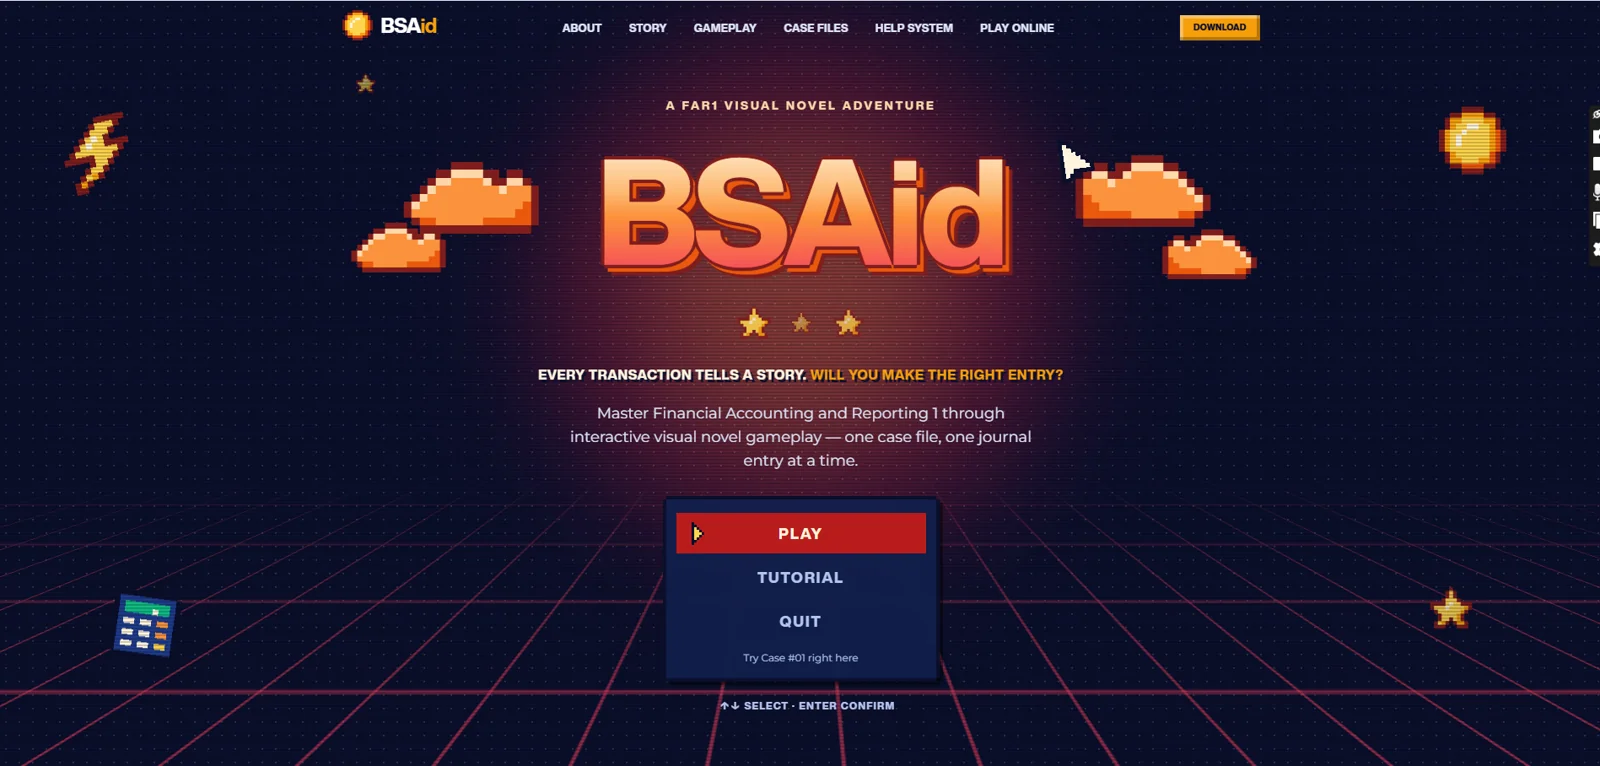
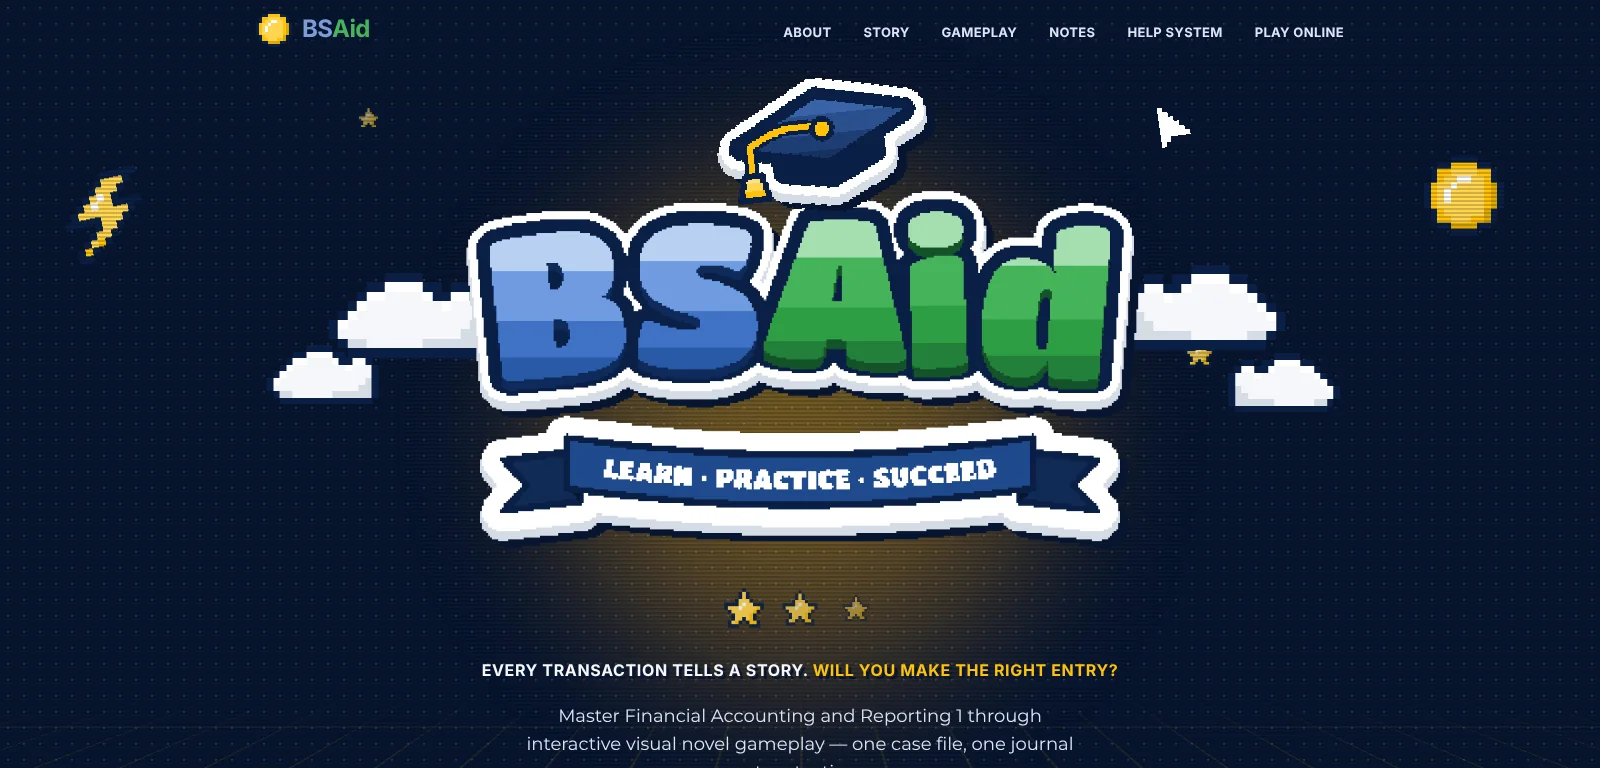
Add ASTRA web project and refresh BSAid screenshots
New ASTRA (Digital Accounting Education Hub) showcase with two live-site
screenshots and a Visit Live Site link; BSAid gets fresh hero and
splash screenshots. Website showcases now crossfade between screenshots
instead of fanning them behind the browser frame.

Claude-Session: https://claude.ai/code/session_01EPMuR69G9Aua2vwccWzjM1

diff --git a/js/main.js b/js/main.js
@@ -63,6 +63,24 @@
       mark: "AG",
     },
     {
+      id: "astra",
+      landscape: true,
+      tags: ["Web Design", "Gamified UI", "Front-end", "Vercel"],
+      title: "ASTRA — Digital Accounting Education Hub",
+      category: "uiux",
+      summary: "Gamified learning hub for accounting students, educators and admins.",
+      description: "A centralized online hub that gives accounting students, educators and university admins supplementary resources and practical learning. A playful, game-inspired interface — XP ranks, flip cards, color-coded paths and mini interactive quests — turns study materials into something people actually want to explore.",
+      client: "ASTRA",
+      year: "2026",
+      role: "Web Designer & Developer",
+      scope: "Visual direction, layout and component design, gamified interactions (XP tracker, flip cards, mini quests), responsive front-end build and deployment.",
+      deliverables: ["Gamified homepage with XP tracker", "Habit Hub, Students, Educators & PLV Admins sections", "Interactive flip cards & mini quizzes", "Responsive build deployed on Vercel"],
+      links: [{ label: "Visit Live Site", url: "https://astrawebsite-nu.vercel.app/#home" }],
+      images: ["assets/work/web/astra-home.webp", "assets/work/web/astra-cards.webp"],
+      art: ["ui"],
+      mark: "AS",
+    },
+    {
       id: "bsaid",
       tags: ["Game UI", "Pixel Art", "Front-end", "Vercel"],
       landscape: true,
@@ -76,7 +94,7 @@
       scope: "Visual direction, landing page and section design, responsive front-end build, and a playable in-browser menu with keyboard controls (↑↓ to select, Enter to confirm) leading into Case #01.",
       deliverables: ["Retro pixel-art visual system", "Landing page with game-style menu", "About, Story, Gameplay, Case Files & Help sections", "Play-online & download flows", "Responsive build deployed on Vercel"],
       links: [{ label: "Visit Live Site", url: "https://bs-aid-website.vercel.app" }],
-      images: ["assets/work/web/bsaid-home.webp"],
+      images: ["assets/work/web/bsaid-home.webp", "assets/work/web/bsaid-splash.webp"],
       cover: "50% 40%",
       art: ["ui"],
       mark: "BS",

diff --git a/index.html b/index.html
@@ -11,7 +11,7 @@
   <link rel="preconnect" href="https://fonts.googleapis.com" />
   <link rel="preconnect" href="https://fonts.gstatic.com" crossorigin />
   <link href="https://fonts.googleapis.com/css2?family=Fredoka:wght@500;600;700&family=Space+Mono:wght@400;700&family=Syne:wght@500;600;700;800&family=Manrope:wght@300;400;500;600;700&display=swap" rel="stylesheet" />
-  <link rel="stylesheet" href="css/style.css?v=1793331920" />
+  <link rel="stylesheet" href="css/style.css?v=1794749132" />
 </head>
 <body>
   <!-- Custom cursor -->
@@ -518,6 +518,6 @@
 
   <div class="toast" id="toast" role="status" aria-live="polite"></div>
 
-  <script src="js/main.js?v=1793331920"></script>
+  <script src="js/main.js?v=1794749132"></script>
 </body>
 </html>

diff --git a/css/style.css b/css/style.css
@@ -617,6 +617,8 @@ mark { background: none; color: var(--cream); box-shadow: inset 0 -.38em 0 rgba(
 }
 .showcase.is-landscape .sc-deck { width: 100%; margin: 0; aspect-ratio: 1600 / 768; }
 .showcase.is-landscape .sc-slide { border-radius: 0; border: 0; box-shadow: none; }
+.showcase.is-landscape .sc-slide:not([data-pos="0"]) { opacity: 0; transform: none; filter: none; }
+.showcase.is-landscape .sc-stage:hover .sc-slide[data-pos="0"] { transform: none; }
 .showcase.is-landscape .sc-stage:hover .sc-slide[data-pos="0"] img { transform: scale(1.03); }
 .showcase.is-landscape .sc-slide img { transition: transform 1.2s var(--ease); object-position: top; }
 .showcase.is-landscape { grid-template-columns: 1.35fr .65fr; }
